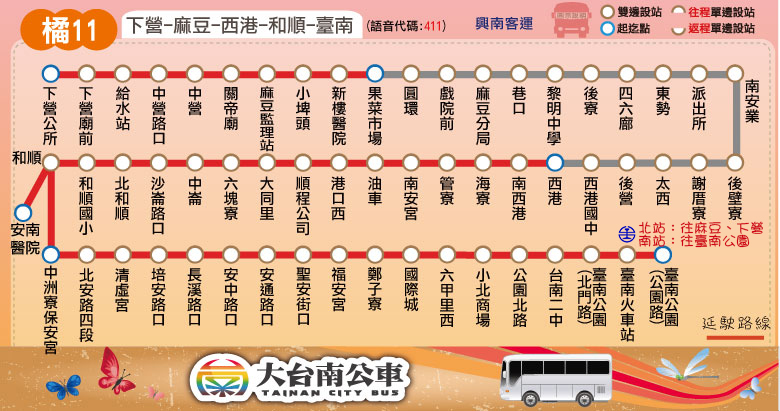
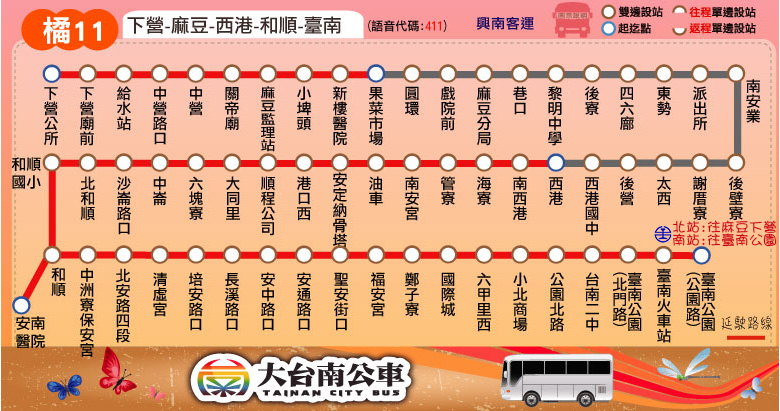
Update time schedule: y10; Update route map: y10,o11,o12

diff --git a/route/fare_and_time/yellow_10.js b/route/fare_and_time/yellow_10.js
@@ -1,15 +1,15 @@
 yellow_10_interval_name = ["泰安宮","後壁<br />火車站","大路墘","顯濟宮","土溝里","白河","河東","大林","大林<br />路口","檨仔坑","石廟仔","籠仔內","六重溪"];
-yellow_10_interval_stop = [
+yellow_10_interval_stop = [ // 20150607 checked
 ["泰安宮","嘉苳里","下茄苳"], // 泰安宮
 ["後壁高中","後壁火車站","後壁國小"], // 後壁火車站
 ["大路墘"], // 大路墘
-["嘉民里","顯濟宮"], // 顯濟宮
-["永安國小","土溝里","下庄仔"], // 土溝里
+["嘉民里","顯濟宮","永安國小"], // 顯濟宮
+["土溝里","下庄仔"], // 土溝里
 ["白河商工","舊地政","白河國中","白河分局","白河站","念佛會"], // 白河
-["凹底","畚箕湖","河東","竹林路口"], // 河東
-["大林","大林中山堂","下厝仔"], // 大林
-["大林路口"], // 大林路口
-["山頂仔","檨仔坑"], // 檨仔坑
+["凹底","畚箕湖","河東"], // 河東
+["竹林路口","大林","大林中山堂","下厝仔"], // 大林
+["大林路口","山頂仔"], // 大林路口
+["檨仔坑","台影文化城"], // 檨仔坑
 ["石廟仔"], // 石廟仔
 ["三重溪","籠仔內"], // 籠仔內
 ["六溪國小","六溪部落","六重溪","南勢仔","頂埔","鎮安宮"] // 六重溪
@@ -33,8 +33,11 @@ yellow_10_fare = [
 // format = [time at the start stop] or
 // [time, other] or
 // [time, start_stop, end_stop, other]
-yellow_10_main_stop_name = ["泰安宮","後壁<br />火車站","顯濟宮","白河","大林","六重溪","鎮安宮"];
-yellow_10_main_stop_time_consume = [0, 5, 12, 25, 33, 45, 50];
-yellow_10_important_stop = [0, 1, 3, 6]; // 泰安宮, 後壁火車站, 白河, 鎮安宮
-yellow_10_time_go = [["07:20"],["10:00"],["13:30"],["15:40"],["17:25",['繞']]];
-yellow_10_time_return = [["06:15",['繞']],["08:15"],["11:00"],["14:30"],["16:30"]];
+yellow_10_main_stop_name = ["泰安宮","後壁<br />火車站","顯濟宮","白河國中","白河","大林","台影<br />文化城","六重溪","鎮安宮"];
+yellow_10_main_stop_time_consume = [0, 5, 12, 20, 25, 33, 40, 45, 50];
+yellow_10_important_stop = [0, 1, 4, 6, 7]; // 泰安宮, 後壁火車站, 白河, 台影文化城, 六重溪
+skip_stop = 3; // 白河國中
+stop_1 = 4; // 白河
+end_stop = 8; // 鎮安宮
+yellow_10_time_go = [["07:20",[skip_stop]],["10:00",[skip_stop]],["13:30",[skip_stop]],["15:40",[skip_stop]],["17:00",skip_stop,end_stop],["17:25",[[skip_stop,5]]]];
+yellow_10_time_return = [["06:15",[[skip_stop-1,5]]],["08:15",[skip_stop]],["11:00",[skip_stop]],["14:30",[skip_stop]],["16:30",[skip_stop]],["17:30",end_stop,stop_1]];

diff --git a/route/fare_and_time/orange_12.js b/route/fare_and_time/orange_12.js
@@ -1,6 +1,6 @@
 orange_12_interval_name = ["麻豆","溪尾","善化","善化<br />轉運站","善化","亞蔬","南科","三舍","新市","新市<br />火車站","車行","蔦松","鹽行","南臺<br />科大","奇美<br />醫院","兵仔市","臺南"];
 orange_12_interval_stop = [
-["果菜市場","圓環","戲院前","一商前","晉江里"], // 麻豆
+["果菜市場","圓環","戲院前","一商前","晉江里北","晉江里"], // 麻豆
 ["溪底寮","溪尾","善化國中","南溪尾"], // 溪尾
 ["善化國小","善化","善化公所","樹人路口"], // 善化
 ["善化轉運站"], // 善化轉運站

diff --git a/yellow/yellow_10.html b/yellow/yellow_10.html
@@ -20,7 +20,7 @@
 	block_route_map(null);
 	block_route_info(route_interval,'新營客運','','里程計費','http://2384.tainan.gov.tw:8080/AGPSRemoteQuery3/ajaxBus.jsp?pathId=1510&locale=zh_TW');
 	block_fare(0, null);
-	block_time_schedule('後壁','六重溪','<font color="red">「繞」</font>表示繞駛白河國中');
+	block_time_schedule('後壁','六重溪','');
 	block_transfer(transfer_houbi_railway_station + transfer_baihe);
 	block_copyright();
 </script>

diff --git a/route/fare_and_time/orange_11.js b/route/fare_and_time/orange_11.js
@@ -9,7 +9,7 @@ orange_11_interval_stop = [
 ["西港國中","西港","南西港"], // 西港
 ["海寮"], // 海寮
 ["管寮"], // 管寮
-["南安宮","油車"], // 南安
+["南安宮","油車","安定納骨塔"], // 南安
 ["港口西","順程公司"], // 港口
 ["大同里","六塊寮"], // 六塊寮
 ["中崙","沙崙路口"], // 中崙
